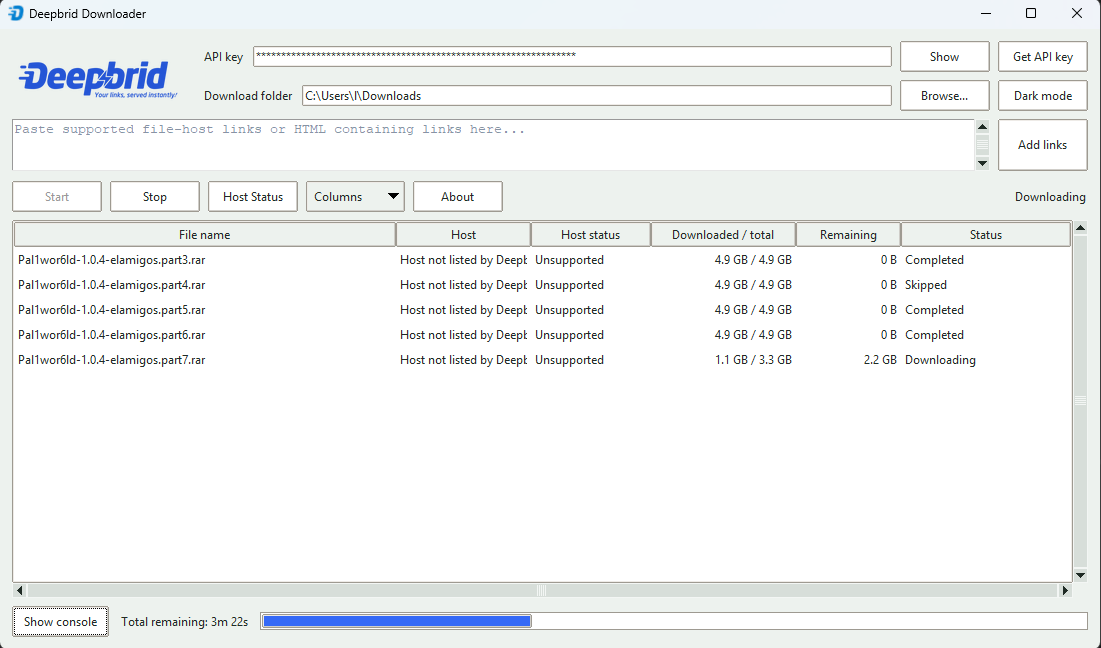
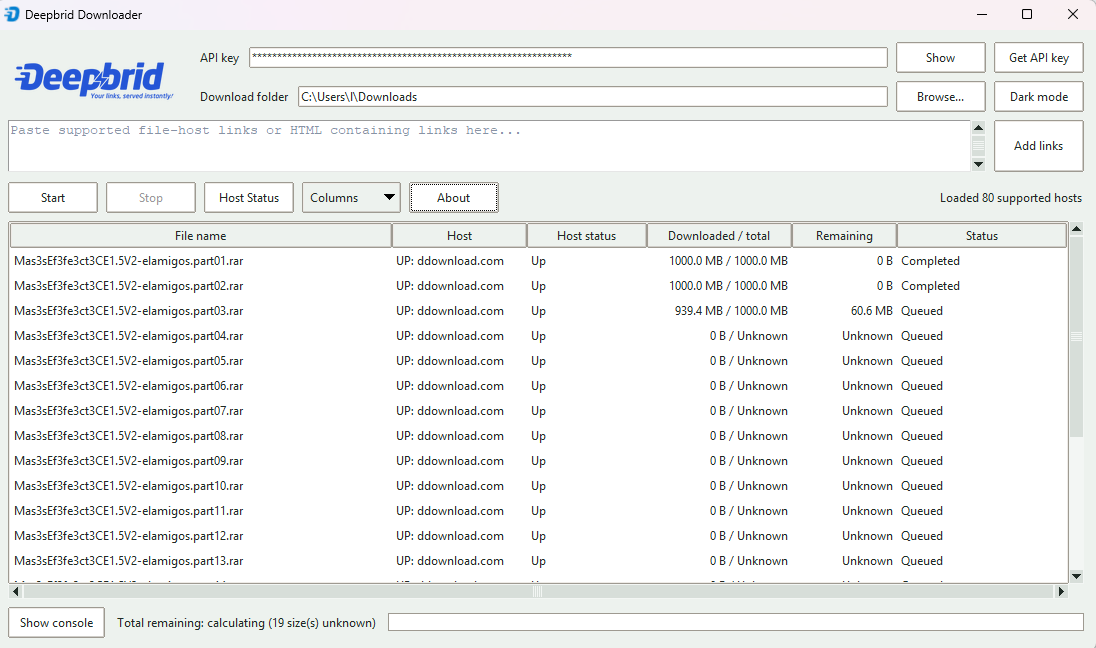
Enhance ETA functionality: add time_remaining column and format_item_eta method; update tests accordingly

diff --git a/src/app.py b/src/app.py
@@ -58,7 +58,7 @@ ICON_PATH = RESOURCE_ROOT / "src" / "deepbrid-logo.png"
 ICON_ICO_PATH = RESOURCE_ROOT / "src" / "deepbrid-favicon.ico"
 WORDMARK_PATH = RESOURCE_ROOT / "src" / "deepbrid-wordmark.png"
 WORDMARK_LIGHT_PATH = RESOURCE_ROOT / "src" / "deepbrid-wordmark-light.png"
-DEFAULT_COLUMNS = ("filename", "host", "status", "size", "remaining", "eta")
+DEFAULT_COLUMNS = ("filename", "host", "status", "size", "remaining", "time_remaining", "eta")
 LINK_PLACEHOLDER = "Paste supported file-host links or HTML containing links here..."
 API_KEY_DASHBOARD_URL = "https://www.deepbrid.com/devices"
 
@@ -165,6 +165,19 @@ def format_duration(seconds: float | None) -> str:
     if not parts or seconds:
         parts.append(f"{seconds}s")
     return " ".join(parts[:2])
+
+
+def format_item_eta(status: str, total: int | None, downloaded: int, speed: float) -> str:
+    if status in {"completed", "skipped"}:
+        return "0s"
+    if status != "downloading":
+        return "—"
+    if total is None:
+        return "Calculating"
+    remaining = max(0, total - downloaded)
+    if remaining == 0:
+        return "0s"
+    return format_duration(remaining / speed) if speed > 0 else "Calculating"
 
 
 def smooth_rate(previous: float, sample: float, weight: float = 0.1) -> float:
@@ -306,9 +319,13 @@ class DownloaderApp:
         if saved_columns:
             try:
                 requested_columns = json.loads(saved_columns)
-                valid_columns = {"filename", "link", "host", "status", "size", "remaining", "eta"}
+                valid_columns = {
+                    "filename", "link", "host", "status", "size", "remaining", "time_remaining", "eta"
+                }
                 if isinstance(requested_columns, list):
                     self.visible_columns = [column for column in requested_columns if column in valid_columns]
+                    if "eta" in self.visible_columns and "time_remaining" not in self.visible_columns:
+                        self.visible_columns.insert(self.visible_columns.index("eta"), "time_remaining")
                     if not self.visible_columns:
                         self.visible_columns = list(DEFAULT_COLUMNS)
             except json.JSONDecodeError:
@@ -443,7 +460,7 @@ class DownloaderApp:
         table_frame.columnconfigure(0, weight=1)
         self.table = ttk.Treeview(
             table_frame,
-            columns=("filename", "link", "host", "status", "size", "remaining", "eta"),
+            columns=("filename", "link", "host", "status", "size", "remaining", "time_remaining", "eta"),
             show="headings",
             selectmode="extended",
         )
@@ -455,6 +472,7 @@ class DownloaderApp:
             "status": "Host status",
             "size": "Downloaded / total",
             "remaining": "Remaining",
+            "time_remaining": "ETA",
             "eta": "Status",
         }
         self._build_columns_menu()
@@ -466,6 +484,7 @@ class DownloaderApp:
         self.table.column("status", width=120, minwidth=90, stretch=False)
         self.table.column("size", width=145, minwidth=120, stretch=False, anchor="e")
         self.table.column("remaining", width=105, minwidth=90, stretch=False, anchor="e")
+        self.table.column("time_remaining", width=95, minwidth=80, stretch=False, anchor="e")
         self.table.column("eta", width=170, minwidth=130, stretch=False)
         self.table.configure(displaycolumns=self.visible_columns)
         self.table.grid(row=0, column=0, sticky="nsew")
@@ -1216,6 +1235,10 @@ class DownloaderApp:
             return item.total if item.total is not None else -1
         if column == "remaining":
             return max(0, item.total - item.downloaded) if item.total is not None else -1
+        if column == "time_remaining":
+            speed = self.item_speeds.get(item.id, 0) or self.average_transfer_speed
+            eta = format_item_eta(item.status, item.total, item.downloaded, speed)
+            return (eta in {"—", "Calculating"}, eta)
         if column == "eta":
             return self.item_status_messages.get(
                 item.id, item.status.replace("_", " ").title()
@@ -1850,6 +1873,12 @@ class DownloaderApp:
                 host_status,
                 f"{format_bytes(item.downloaded)} / {format_bytes(item.total)}",
                 format_bytes(remaining),
+                format_item_eta(
+                    item.status,
+                    item.total,
+                    item.downloaded,
+                    self.item_speeds.get(item.id, 0) or self.average_transfer_speed,
+                ),
                 queue_status,
             )
             if row_id in existing:
@@ -1874,16 +1903,27 @@ class DownloaderApp:
             self.total_eta_text.set("Total remaining: 0s")
             return
         unknown_sizes = sum(item.total is None for item in pending)
-        if unknown_sizes:
-            self.total_eta_text.set(f"Total remaining: calculating ({unknown_sizes} size(s) unknown)")
-            return
-        bytes_left = sum(max(0, item.total - item.downloaded) for item in pending)
+        bytes_left = sum(
+            max(0, item.total - item.downloaded)
+            for item in pending
+            if item.total is not None
+        )
         if bytes_left == 0:
-            self.total_eta_text.set("Total remaining: 0s")
+            if unknown_sizes:
+                self.total_eta_text.set(f"Total remaining: calculating ({unknown_sizes} size(s) unknown)")
+            else:
+                self.total_eta_text.set("Total remaining: 0s")
         elif speed > 0:
-            self.total_eta_text.set(f"Total remaining: {format_duration(bytes_left / speed)}")
+            estimate = format_duration(bytes_left / speed)
+            if unknown_sizes:
+                self.total_eta_text.set(f"Known remaining: {estimate}; {unknown_sizes} size(s) unknown")
+            else:
+                self.total_eta_text.set(f"Total remaining: {estimate}")
         else:
-            self.total_eta_text.set("Total remaining: calculating")
+            if unknown_sizes:
+                self.total_eta_text.set(f"Known remaining: calculating; {unknown_sizes} size(s) unknown")
+            else:
+                self.total_eta_text.set("Total remaining: calculating")
 
     def _process_events(self) -> None:
         while True:

diff --git a/tests/test_downloader.py b/tests/test_downloader.py
@@ -39,6 +39,7 @@ from src.app import (
     _parse_linked_image_badge,
     format_bytes,
     format_duration,
+    format_item_eta,
     migrate_legacy_database,
     migrate_legacy_databases,
     redact_log_urls,
@@ -757,6 +758,10 @@ class ValidationAndPresentationTests(unittest.TestCase):
         self.assertEqual(format_bytes(1024), "1.0 KB")
         self.assertEqual(format_bytes(None), "Unknown")
         self.assertEqual(format_duration(3661), "1h 1m")
+        self.assertEqual(format_item_eta("downloading", 1000, 400, 100), "6s")
+        self.assertEqual(format_item_eta("downloading", 1000, 400, 0), "Calculating")
+        self.assertEqual(format_item_eta("queued", None, 0, 100), "—")
+        self.assertEqual(format_item_eta("completed", 1000, 1000, 100), "0s")
         app = object.__new__(DownloaderApp)
         app.item_speeds = {1: 100}
         app.item_status_messages = {1: "Link retry 2/5 in 3s"}
@@ -772,6 +777,19 @@ class ValidationAndPresentationTests(unittest.TestCase):
         self.assertEqual(app._sort_value(item, "filename"), "bravo.zip")
         self.assertEqual(app._sort_value(item, "remaining"), 400)
         self.assertEqual(app._sort_value(item, "eta"), "link retry 2/5 in 3s")
+
+    def test_total_eta_shows_known_work_when_queued_sizes_are_unknown(self) -> None:
+        app = object.__new__(DownloaderApp)
+        eta_text: list[str] = []
+        app.total_eta_text = SimpleNamespace(set=eta_text.append)
+        items = [
+            SimpleNamespace(enabled=True, status="downloading", total=1000, downloaded=500),
+            SimpleNamespace(enabled=True, status="queued", total=None, downloaded=0),
+        ]
+
+        app._update_total_eta(items, 100)
+
+        self.assertEqual(eta_text, ["Known remaining: 5s; 1 size(s) unknown"])
 
     def test_total_speed_uses_a_slow_exponential_average(self) -> None:
         average = smooth_rate(100.0, 1000.0)
